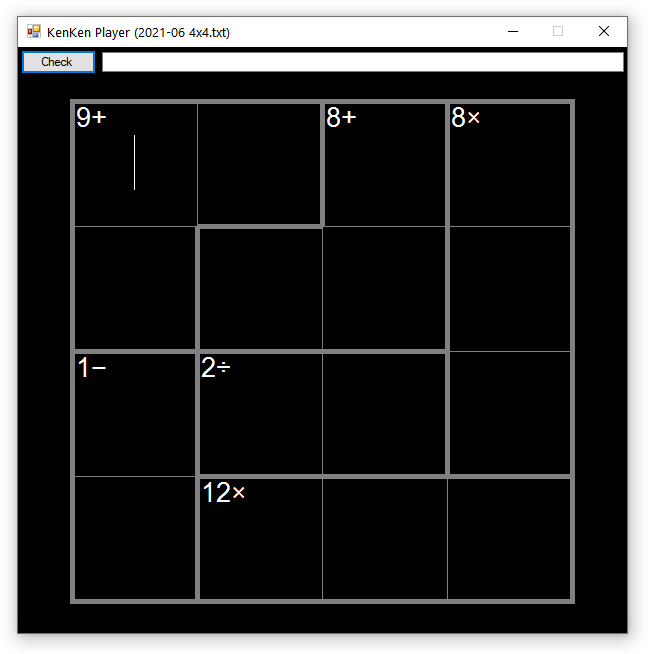
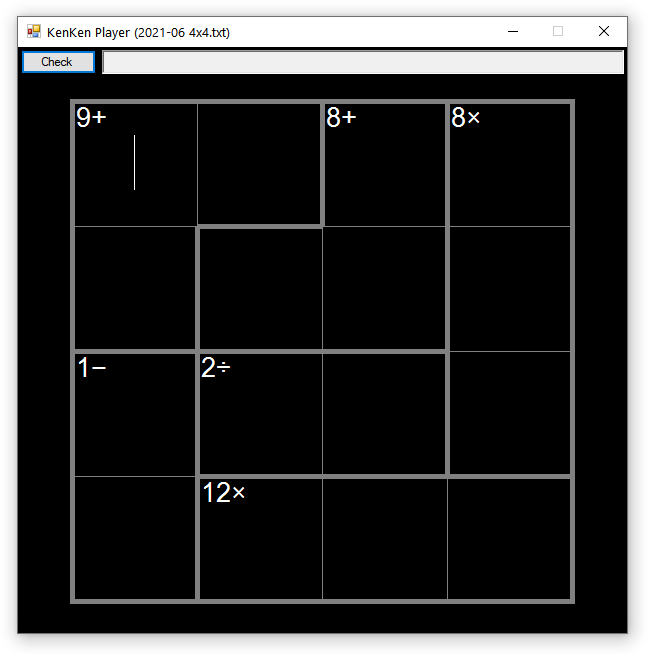
Replace TextBox with RichTextBox to enable formatting of notes

Changed region(s): [[0.1543, 0.0612, 0.9568, 0.1223]]

diff --git a/KenKenPlayer/KenKenPlayer.cs b/KenKenPlayer/KenKenPlayer.cs
@@ -28,6 +28,7 @@ namespace KenKenPlayer
         private int borderWidth = 5;                            // Width of the outer border lines and heavy cage lines.
         private int gridWidth = 1;                              // Width of the grid lines.
         private Color puzzleBackgroundColor = Color.Black;      // Background color of the puzzle canvas.
+        private Color foregroundColor = Color.White;            // Color used for most text elements.
         private Font cornerTextFont = new Font("Arial", 20);    // Font used for the corner text with the result and operation.
         private Brush cornerTextColor = Brushes.White;          // Color used for the corner text.
         private Bitmap puzzleCanvas;                            // Bitmap for the puzzle canvas.
@@ -35,7 +36,6 @@ namespace KenKenPlayer
         private Font textBoxFont = new Font("Arial", 36);       // Font used for the cell textboxes.
         private Color textBoxIncorrectColor = Color.Red;        // Color used to show incorrect cells.
         private TextBox focusedTextBox;                         // Used to track the currently focused textbox so the notes textbox knows where to store its text.
-        private Font notesLabelFont = new Font("Arial", 10);    // Font used for the labels at the bottom of each cell that shows the cell's notes.
         private DateTime startTime;                             // Records the time at which the puzzle has finished loading from the text file and was rendered in the program.
         private bool puzzleCompleted;                           // Indicates whether the puzzle has been completed yet or not. Used for displaying the completion time in the title bar.
 
@@ -418,7 +418,7 @@ namespace KenKenPlayer
                 textBox.GotFocus -= CellTextBox_GotFocus;
                 textBox.KeyDown -= CellTextBox_KeyDown;
                 Controls.Remove(textBox);
-                Controls.Remove(((TextBoxTagData)textBox.Tag).notesLabel);
+                Controls.Remove(((TextBoxTagData)textBox.Tag).notesPreview);
                 textBox.Dispose();
             }
         }
@@ -436,7 +436,7 @@ namespace KenKenPlayer
                         BackColor = puzzleBackgroundColor,
                         BorderStyle = BorderStyle.None,
                         Font = textBoxFont,
-                        ForeColor = Color.White,
+                        ForeColor = foregroundColor,
                         MaxLength = 1,
                         TextAlign = HorizontalAlignment.Center,
                         Name = $"{row.index},{cell.index}",
@@ -451,19 +451,26 @@ namespace KenKenPlayer
                     int textBoxYCoord = yCoord + (cellSize / 2) - (newTextBox.Size.Height / 2);
                     newTextBox.Location = new Point(textBoxXCoord, textBoxYCoord);
 
-                    Label newLabel = new Label
+                    int richTextBoxWidth = (int)(cellSize * 0.90);
+                    int richTextBoxHeight = 20;
+                    int richTextBoxXCoord = xCoord + ((cellSize - richTextBoxWidth) / 2);
+                    int richTextBoxYCoord = yCoord + cellSize - (int)(richTextBoxHeight * 1.2);
+
+                    RichTextBox newRichTextBox = new RichTextBox
                     {
-                        BackColor = Color.Transparent,
-                        Font = notesLabelFont,
-                        ForeColor = Color.White,
-                        TextAlign = ContentAlignment.BottomCenter,
-                        Size = new Size(cellSize, cellSize),
-                        Location = new Point(xCoord, yCoord)
+                        BackColor = puzzleBackgroundColor,
+                        ForeColor = foregroundColor,
+                        Size = new Size(richTextBoxWidth, richTextBoxHeight),
+                        Location = new Point(richTextBoxXCoord, richTextBoxYCoord),
+                        Multiline = false,
+                        BorderStyle = BorderStyle.None,
+                        ReadOnly = true,
+                        TabStop = false
                     };
-                    ((TextBoxTagData)newTextBox.Tag).notesLabel = newLabel;
+                    ((TextBoxTagData)newTextBox.Tag).notesPreview = newRichTextBox;
 
                     Controls.Add(newTextBox);
-                    Controls.Add(newLabel);
+                    Controls.Add(newRichTextBox);
                     cell.cell.textBox = newTextBox;
                 }
             }
@@ -475,13 +482,15 @@ namespace KenKenPlayer
             {
                 ((TextBox)sender).Text = string.Empty;
             }
+
+            ClearAllCellHighlighting();
         }
 
         private void CellTextBox_GotFocus(object sender, EventArgs e)
         {
             focusedTextBox = (TextBox)sender;
             NotesTextBox.ReadOnly = false;
-            NotesTextBox.Text = ((TextBoxTagData)focusedTextBox.Tag).notes;
+            NotesTextBox.Rtf = ((TextBoxTagData)focusedTextBox.Tag).notes;
             focusedTextBox.SelectAll();
         }
 
@@ -502,10 +511,7 @@ namespace KenKenPlayer
             }
 
             // Clear the highlighting from the rows.
-            foreach (var row in cageAssignments)
-            {
-                HighlightCells(row, false);
-            }
+            ClearAllCellHighlighting();
 
             // First, validate the rows.
             foreach (var row in cageAssignments.Select((row, index) => (row, index)))
@@ -658,6 +664,14 @@ namespace KenKenPlayer
             return result;
         }
 
+        private void ClearAllCellHighlighting()
+        {
+            foreach (var row in cageAssignments)
+            {
+                HighlightCells(row, false);
+            }
+        }
+
         private void HighlightRow(int rowIndex, bool column, bool highlight)
         {
             var cages = cageAssignments;
@@ -703,16 +717,36 @@ namespace KenKenPlayer
 
         private void NotesTextBox_TextChanged(object sender, EventArgs e)
         {
-            ((TextBoxTagData)focusedTextBox.Tag).notes = NotesTextBox.Text;
-            ((TextBoxTagData)focusedTextBox.Tag).notesLabel.Text = NotesTextBox.Text;
+            TextBoxTagData tagData = (TextBoxTagData)focusedTextBox.Tag;
+            tagData.notes = NotesTextBox.Rtf;
+            tagData.notesPreview.Rtf = NotesTextBox.Rtf;
+            tagData.notesPreview.SelectAll();
+            tagData.notesPreview.SelectionColor = foregroundColor;
+            tagData.notesPreview.SelectionAlignment = HorizontalAlignment.Center;
         }
 
         private void NotesTextBox_KeyDown(object sender, KeyEventArgs e)
         {
-            if (e.Control && e.KeyCode == Keys.N)
+            var fontStyleShortcuts = new Dictionary<Keys, FontStyle>
             {
-                e.SuppressKeyPress = true;
-                focusedTextBox.Focus();
+                { Keys.B, FontStyle.Bold },
+                { Keys.I, FontStyle.Italic },
+                { Keys.U, FontStyle.Underline },
+                { Keys.K, FontStyle.Strikeout }
+            };
+
+            if (e.Control)
+            {
+                if (e.KeyCode == Keys.N)
+                {
+                    e.SuppressKeyPress = true;
+                    focusedTextBox.Focus();
+                }
+                else if (fontStyleShortcuts.ContainsKey(e.KeyCode))
+                {
+                    e.SuppressKeyPress = true;
+                    NotesTextBox.SelectionFont = new Font(NotesTextBox.SelectionFont, NotesTextBox.SelectionFont.Style ^ fontStyleShortcuts[e.KeyCode]);
+                }
             }
         }
     }
@@ -767,6 +801,6 @@ namespace KenKenPlayer
     public class TextBoxTagData
     {
         public string notes;
-        public Label notesLabel;
+        public RichTextBox notesPreview;
     }
 }

diff --git a/KenKenPlayer/KenKenPlayer.Designer.cs b/KenKenPlayer/KenKenPlayer.Designer.cs
@@ -31,7 +31,7 @@
             this.InstructionsLabel = new System.Windows.Forms.Label();
             this.tableLayoutPanel1 = new System.Windows.Forms.TableLayoutPanel();
             this.CheckButton = new System.Windows.Forms.Button();
-            this.NotesTextBox = new System.Windows.Forms.TextBox();
+            this.NotesTextBox = new System.Windows.Forms.RichTextBox();
             this.tableLayoutPanel1.SuspendLayout();
             this.SuspendLayout();
             // 
@@ -77,12 +77,14 @@
             // NotesTextBox
             // 
             this.NotesTextBox.Dock = System.Windows.Forms.DockStyle.Fill;
-            this.NotesTextBox.Location = new System.Drawing.Point(84, 5);
-            this.NotesTextBox.Margin = new System.Windows.Forms.Padding(3, 5, 3, 3);
+            this.NotesTextBox.Font = new System.Drawing.Font("Microsoft Sans Serif", 12F, System.Drawing.FontStyle.Regular, System.Drawing.GraphicsUnit.Point, ((byte)(0)));
+            this.NotesTextBox.Location = new System.Drawing.Point(84, 3);
+            this.NotesTextBox.Multiline = false;
             this.NotesTextBox.Name = "NotesTextBox";
             this.NotesTextBox.ReadOnly = true;
-            this.NotesTextBox.Size = new System.Drawing.Size(713, 20);
+            this.NotesTextBox.Size = new System.Drawing.Size(713, 24);
             this.NotesTextBox.TabIndex = 1;
+            this.NotesTextBox.Text = "";
             this.NotesTextBox.TextChanged += new System.EventHandler(this.NotesTextBox_TextChanged);
             this.NotesTextBox.KeyDown += new System.Windows.Forms.KeyEventHandler(this.NotesTextBox_KeyDown);
             // 
@@ -105,7 +107,6 @@
             this.DragDrop += new System.Windows.Forms.DragEventHandler(this.KenKenPlayer_DragDrop);
             this.DragEnter += new System.Windows.Forms.DragEventHandler(this.KenKenPlayer_DragEnter);
             this.tableLayoutPanel1.ResumeLayout(false);
-            this.tableLayoutPanel1.PerformLayout();
             this.ResumeLayout(false);
 
         }
@@ -114,7 +115,7 @@
         private System.Windows.Forms.Label InstructionsLabel;
         private System.Windows.Forms.TableLayoutPanel tableLayoutPanel1;
         private System.Windows.Forms.Button CheckButton;
-        private System.Windows.Forms.TextBox NotesTextBox;
+        private System.Windows.Forms.RichTextBox NotesTextBox;
     }
 }
 

diff --git a/README.md b/README.md
@@ -8,7 +8,7 @@ It supports common sizes of puzzles, like 4x4, 5x5, and 6x6. It may work with la
 
 No-op puzzles are not supported. The puzzles must have operations for each cage, unless a cage only has a single cell.
 
-You can take notes using the text box at the top of the window and they'll be displayed at the bottom of the cell that's currently in focus.
+You can take notes using the text box at the top of the window and they'll be displayed at the bottom of the cell that's currently in focus. You can use bold, italics, underlines, and strikethroughs in your notes to organize them, like to strike out eliminated candidate numbers. See the keyboard shortcuts section to learn how to apply the styles.
 
 ![Notes](screenshots/notes.png "Demonstration of how notes can be entered using the text box at the top of the window and displayed at the bottom of the associated cell")
 
@@ -70,3 +70,11 @@ Once you've loaded a puzzle by dragging a text file into the program, you can pl
 `Enter` is the same as pressing the `Check` button, allowing you to check your work from anywhere in the puzzle.
 
 `Ctrl-N` moves between the currently focused cell and the notes text box, and vice versa.
+
+`Ctrl-B` in the notes text box toggles the bold style on the currently selected text.
+
+`Ctrl-I` in the notes text box toggles the italics style on the currently selected text.
+
+`Ctrl-U` in the notes text box toggles the underline style on the currently selected text.
+
+`Ctrl-K` in the notes text box toggles the strikethrough style on the currently selected text.
